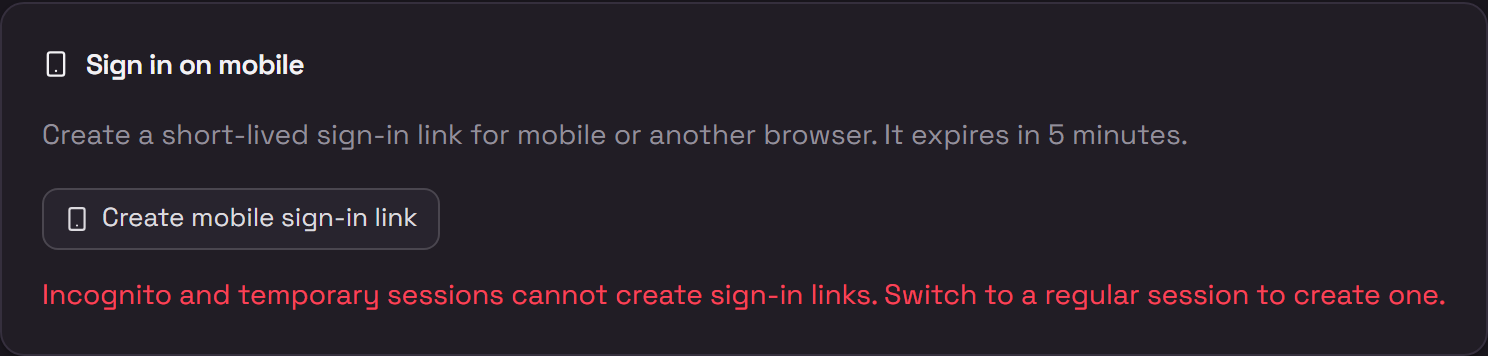
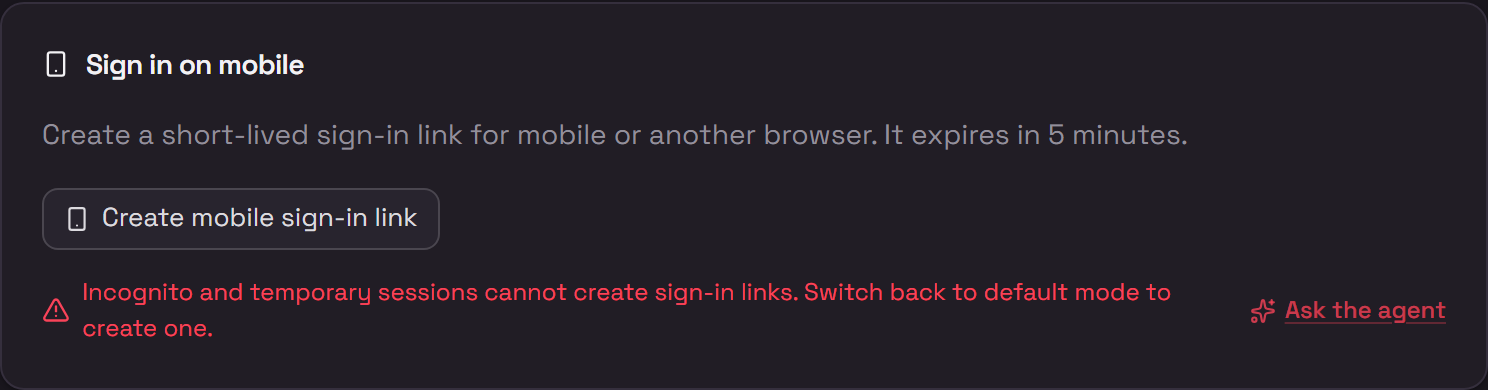
fix(dashboard): close the review findings on the two mint-error surfaces
The copy said 'Switch to a regular session', naming a control the product does not have: the mode switcher is labeled 'Switch back to default mode' (components.welcomeView.switch_back_to_default_mode), and 'regular session' appears in no other string, so the one job of the sentence -- directing recovery -- sent the user hunting. Every locale now reuses its own existing translation of that label, and en-XA is regenerated.

Register is deliberately left alone. de/fr/hi/bn read informal because src/i18n/style/{de,fr,hi,bn}.md mandate informal address; the formal siblings in the same block are pre-existing violations that hiStyle.test.ts baselines at 118, so matching them would raise that ratchet rather than fix anything.

Both mint-error surfaces now render through ErrorNotice. AUTOSDE errors-use-error-notice (website/AUTOSDE.yaml:527, blocking) grandfathers the ~100 pre-existing hand-written sites but migrates any this diff touches, and this diff rewrites the condition inside both: a bare role="alert" paragraph throws away the structured context (route, endpoint, HTTP status, backend code) that ErrorNotice recovers, so a 403 nobody can retry past was a dead end with no hand-off. Same strings, same order, variant="inline" so the line stays a line rather than becoming a boxed banner.
[…]

diff --git a/website/src/components/MobileConnectModal.tsx b/website/src/components/MobileConnectModal.tsx
@@ -9,8 +9,9 @@ import { settingsPath } from './settingsPath'
 import { useAppSelector } from '../store'
 import { useDialogFocusTrap } from '../hooks/useDialogFocusTrap'
 import { copyToClipboard } from '../utils/clipboard'
-import { parseErrorCode } from '../utils/errorReport'
+import { findReport, parseErrorCode } from '../utils/errorReport'
 import ErrorBoundary from './ErrorBoundary'
+import ErrorNotice from './ErrorNotice'
 import { getMobileConnectRenderers } from './mobileConnectRenderers'
 
 /** Machine-readable code from a mint error's JSON body (same shape as the
@@ -20,6 +21,30 @@ const linkErrorCode = (error: unknown): string | undefined =>
   typeof error === 'object' && error !== null && 'body' in error
     ? parseErrorCode(typeof error.body === 'string' ? error.body : undefined)
     : undefined
+
+/**
+ * Handler error code → catalog key, for the SECOND consumer of
+ * `api.mobileLoginLink` (the Settings card is the first, and carries the same
+ * map). Both dialogs mint through one handler, so a code that retrying cannot
+ * clear has to name its action in both places or the defect only half moves.
+ *
+ * The two 403s reuse the Settings card's keys rather than duplicating the
+ * sentences into this namespace: the copy is identical, the strings are already
+ * translated in all thirteen catalogs, and a component reading a `pages.*` core
+ * key is the established shape here (`ApprovalModePicker`, `AddJobSplitButton`).
+ * The other two entries stay on this dialog's own keys, whose wording is
+ * dialog-specific.
+ *
+ * Every key is a plain string literal in an `as const` map, not a key assembled
+ * at the call site, so the static key scan can see them — see
+ * `src/i18n/dynamicKeys.test.ts`.
+ */
+const LINK_ERROR_KEYS = {
+  external_origin_unavailable: 'components.mobileConnect.could_not_create_a_link_check_that_an_external_add',
+  governance_denied: 'components.mobileConnect.phone_connection_is_disabled_by_policy_on_this_dep',
+  restricted_session: 'pages.settings.mobileLoginCard.restricted_sessions_cannot_create_a_sign_in_link',
+  caller_session_expired: 'pages.settings.mobileLoginCard.session_expired_sign_in_again_to_create_a_link',
+} as const
 
 /**
  * "Connect your phone" — the sidebar entry's centered dialog (mockup A1).
@@ -278,16 +303,26 @@ function LoginLinkSection({ standalone }: { standalone: boolean }) {
         </p>
       )}
       {createLink.isError && (
-        <p className="text-[11.5px] text-danger mt-2" role="alert">
-          {/* Blame configuration ONLY when the server said so; a policy denial
-              is terminal (retrying cannot succeed); anything else gets a plain
-              retry line so the user does not hunt a config that is fine. */}
-          {linkErrorCode(createLink.error) === 'external_origin_unavailable'
-            ? t('components.mobileConnect.could_not_create_a_link_check_that_an_external_add')
-            : linkErrorCode(createLink.error) === 'governance_denied'
-              ? t('components.mobileConnect.phone_connection_is_disabled_by_policy_on_this_dep')
-              : t('components.mobileConnect.could_not_create_a_link_try_again')}
-        </p>
+        /* Blame configuration ONLY when the server said so; a policy denial
+           and both dead-end 403s are terminal (retrying cannot succeed);
+           anything else gets a plain retry line so the user does not hunt a
+           config that is fine.
+           Hand-off is on: the mint takes no user input, so the only thing this
+           dialog holds is a read-only generated link that re-minting replaces.
+           `report` is resolved from the RAW error message, not the copy below:
+           the journal keys on what `apiFailure` threw, so a lookup by the
+           translated sentence would miss and the hand-off would carry no
+           endpoint, status or backend `code`. */
+        <ErrorNotice
+          variant="inline"
+          askAgent
+          className="mt-2"
+          report={findReport(createLink.error?.message)}
+          message={t(
+            LINK_ERROR_KEYS[linkErrorCode(createLink.error) as keyof typeof LINK_ERROR_KEYS] ||
+              'components.mobileConnect.could_not_create_a_link_try_again',
+          )}
+        />
       )}
       {createLink.data && (
         <p className="text-[11.5px] text-muted mt-2">

diff --git a/website/src/pages/settings/MobileLoginCard.test.tsx b/website/src/pages/settings/MobileLoginCard.test.tsx
@@ -7,6 +7,12 @@ vi.mock('../../api/client', () => ({
 }))
 
 import { api } from '../../api/client'
+import {
+  __resetErrorJournalForTests,
+  consumeChatHandoff,
+  installSoftNavigate,
+  recordError,
+} from '../../utils/errorReport'
 import { MobileLoginCard } from './MobileLoginCard'
 
 describe('MobileLoginCard', () => {
@@ -76,7 +82,7 @@ describe('MobileLoginCard', () => {
 
     const alert = await screen.findByRole('alert')
     expect(alert).toHaveTextContent(
-      'Incognito and temporary sessions cannot create sign-in links. Switch to a regular session to create one.',
+      'Incognito and temporary sessions cannot create sign-in links. Switch back to default mode to create one.',
     )
     expect(alert).not.toHaveTextContent('Try again')
   })
@@ -111,6 +117,38 @@ describe('MobileLoginCard', () => {
     expect(await screen.findByRole('alert')).toHaveTextContent(
       'Could not create a sign-in link. Try again.',
     )
+  })
+
+  it('hands the agent the structured report, not just the translated sentence', async () => {
+    // The journal keys on the message the api client threw, and the card renders
+    // a translated sentence instead — so a hand-off that looked the report up by
+    // what is on screen would miss and carry no endpoint, status or code. The
+    // sibling dialog (`MobileConnectModal`) passes `report` the same way.
+    __resetErrorJournalForTests()
+    recordError({
+      source: 'api',
+      message: 'HTTP 403',
+      status: 403,
+      code: 'restricted_session',
+      endpoint: '/api/auth/mobile-link',
+    })
+    installSoftNavigate(vi.fn())
+    ;(api.mobileLoginLink as ReturnType<typeof vi.fn>).mockRejectedValue(Object.assign(
+      new Error('HTTP 403'),
+      { body: JSON.stringify({ code: 'restricted_session' }) },
+    ))
+
+    renderWithProviders(<MobileLoginCard />)
+    fireEvent.click(screen.getByRole('button', { name: 'Create mobile sign-in link' }))
+    await screen.findByRole('alert')
+    fireEvent.click(screen.getByRole('button', { name: 'Ask the agent' }))
+
+    const prompt = consumeChatHandoff()
+    expect(prompt).toContain('- Request: /api/auth/mobile-link -> HTTP 403')
+    expect(prompt).toContain('- Code: restricted_session')
+
+    installSoftNavigate(null)
+    __resetErrorJournalForTests()
   })
 
   it('explains how to copy manually when clipboard access is unavailable', async () => {

diff --git a/website/src/pages/settings/MobileLoginCard.tsx b/website/src/pages/settings/MobileLoginCard.tsx
@@ -6,7 +6,7 @@ import { api } from '../../api/client'
 import { Btn, Card, CardTitle, Input } from '../../components/ui'
 import ErrorNotice from '../../components/ErrorNotice'
 import { useAppSelector } from '../../store'
-import { parseErrorCode } from '../../utils/errorReport'
+import { findReport, parseErrorCode } from '../../utils/errorReport'
 import { copyToClipboard } from '../../utils/clipboard'
 
 const mobileLinkErrorCode = (error: unknown): string | undefined =>
@@ -136,9 +136,17 @@ export function MobileLoginCard() {
           card holds no draft — and `external_origin_unavailable` is exactly the
           config gap (dashboard.url) the agent can fix. */}
       {createLink.isError && (
+        // Hand-off is on: the mint takes no user input, so the only thing this
+        // subtree holds is a read-only generated link that re-minting replaces.
+        // `report` is resolved from the RAW error message, not the copy below:
+        // the journal keys on what `apiFailure` threw, so a lookup by the
+        // translated sentence would miss and the hand-off would carry no
+        // endpoint, status or backend `code`.
         <ErrorNotice
-          className="mt-3"
+          variant="inline"
           askAgent
+          className="mt-3"
+          report={findReport(createLink.error?.message)}
           message={t(
             MOBILE_LINK_ERROR_KEYS[
               mobileLinkErrorCode(createLink.error) as keyof typeof MOBILE_LINK_ERROR_KEYS

diff --git a/website/src/components/MobileConnectModal.test.tsx b/website/src/components/MobileConnectModal.test.tsx
@@ -145,6 +145,34 @@ describe('MobileConnectModal', () => {
     await screen.findByText(/Could not create a link/)
   })
 
+  it('tells a restricted session to switch sessions instead of retrying', async () => {
+    mocks.mobileLoginLink.mockRejectedValue(
+      Object.assign(new Error('restricted session'), {
+        body: JSON.stringify({ code: 'restricted_session' }),
+      }),
+    )
+    mount(['login_link'])
+    fireEvent.click(screen.getByText('Create sign-in link'))
+    const alert = await screen.findByRole('alert')
+    expect(alert).toHaveTextContent(
+      'Incognito and temporary sessions cannot create sign-in links. Switch back to default mode to create one.',
+    )
+    expect(alert).not.toHaveTextContent('Try again')
+  })
+
+  it('tells an expired session to sign in again instead of retrying', async () => {
+    mocks.mobileLoginLink.mockRejectedValue(
+      Object.assign(new Error('caller session expired'), {
+        body: JSON.stringify({ code: 'caller_session_expired' }),
+      }),
+    )
+    mount(['login_link'])
+    fireEvent.click(screen.getByText('Create sign-in link'))
+    const alert = await screen.findByRole('alert')
+    expect(alert).toHaveTextContent('Your session has expired. Sign in again, then create the link.')
+    expect(alert).not.toHaveTextContent('Try again')
+  })
+
   it('Copy link confirms with a transient tick', async () => {
     Object.defineProperty(navigator, 'clipboard', {
       configurable: true,
